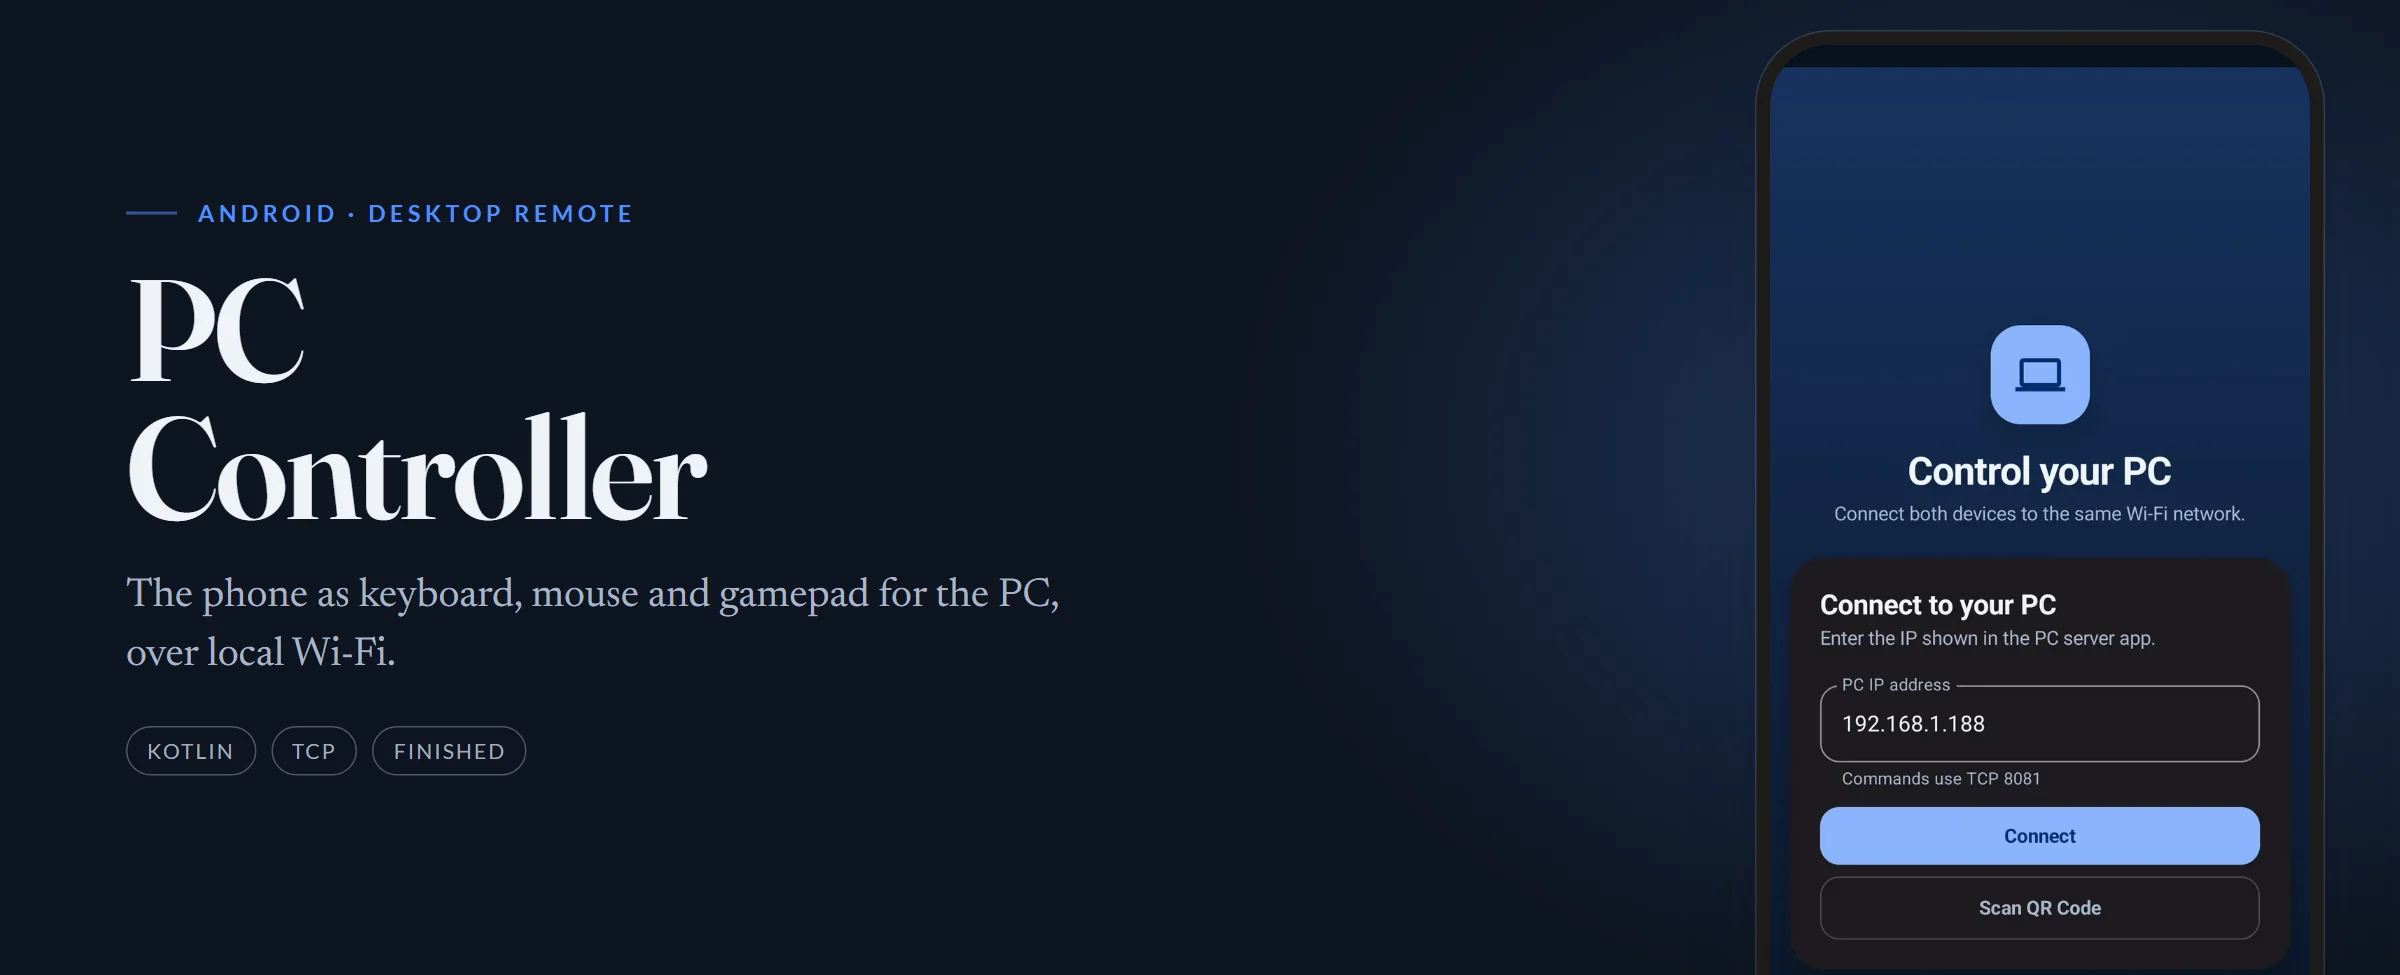
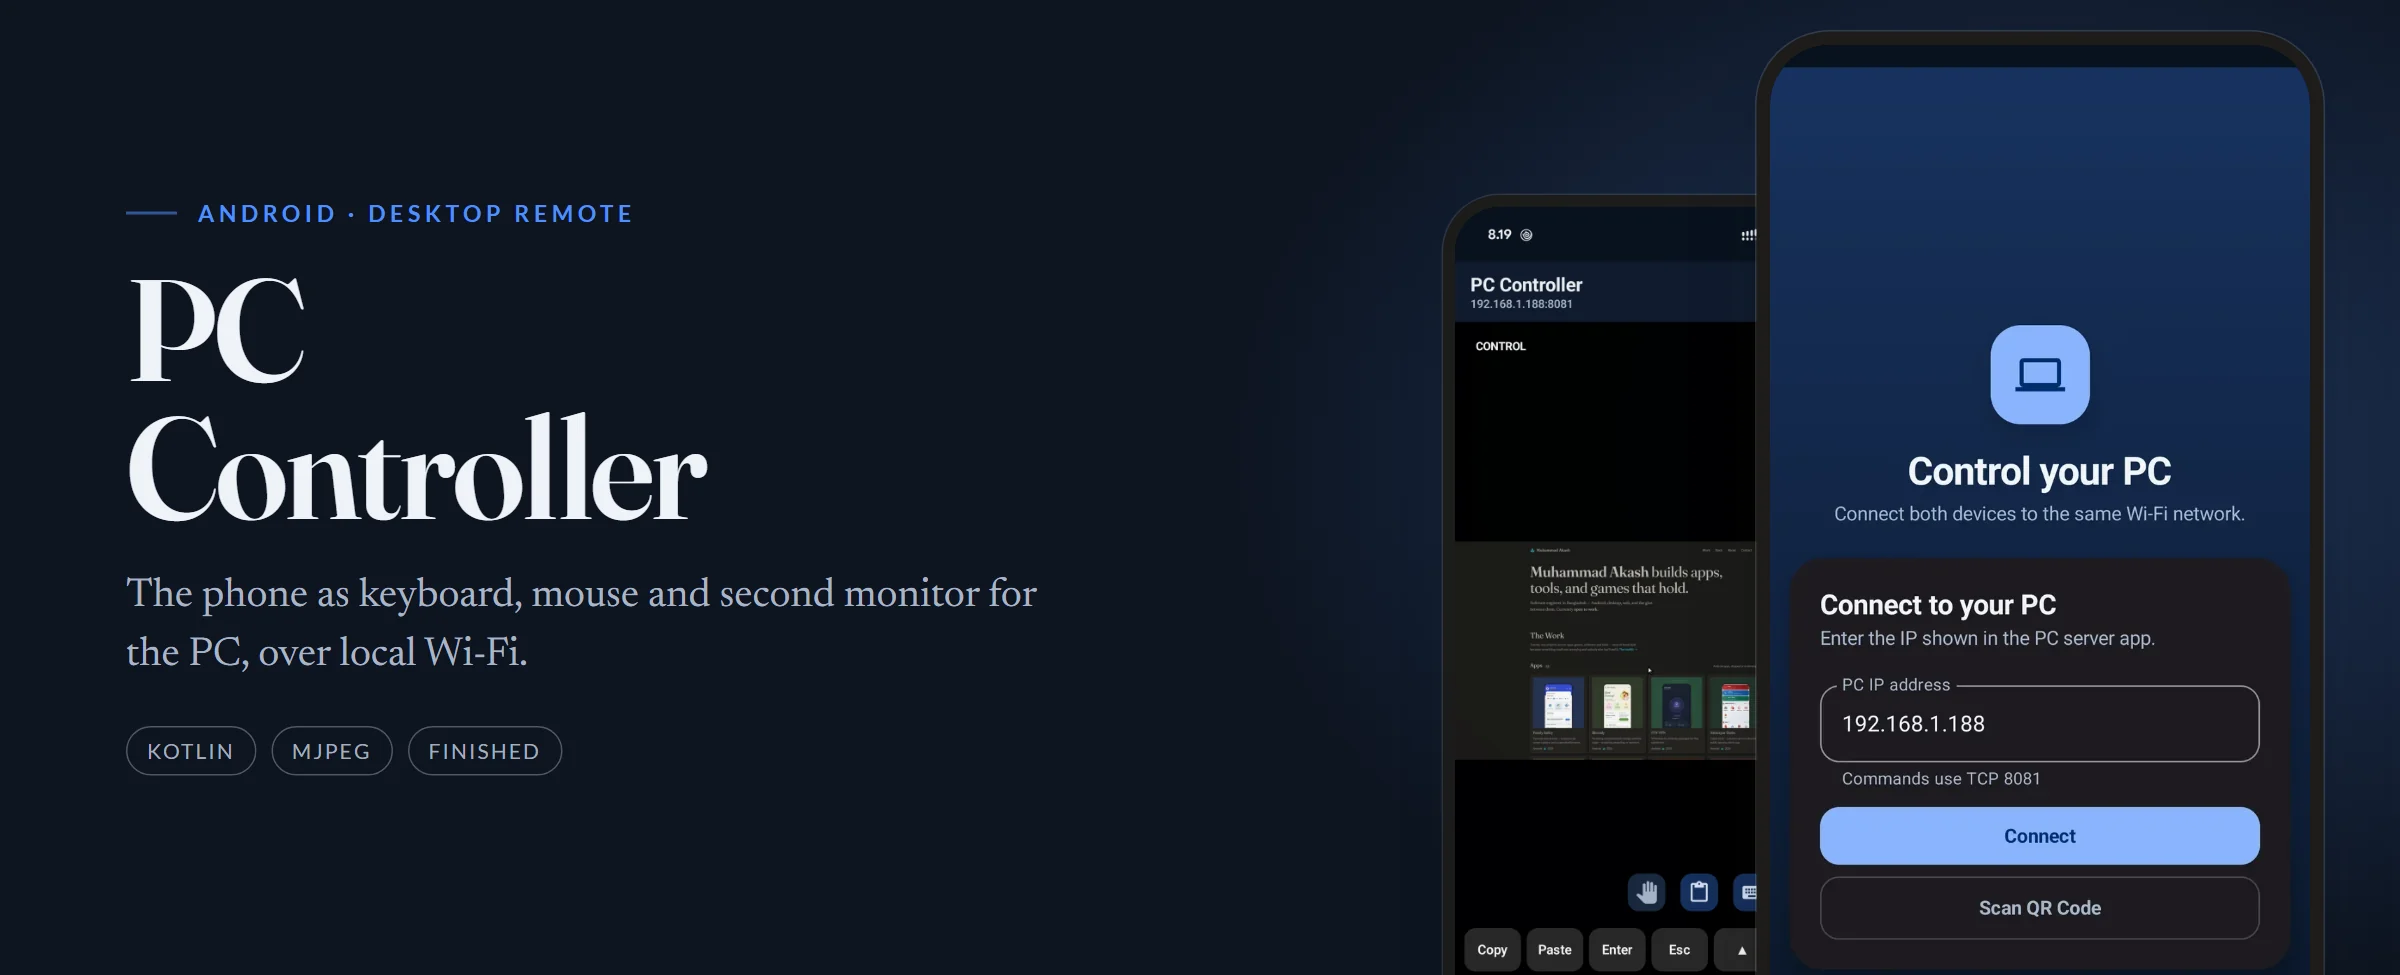
work: PC Controller doubles as a second monitor
The server has always streamed the desktop as MJPEG, but the project read as a remote control only. Rewrites the summary, body and card copy around the screen, and adds two live captures: the portrait remote view and the landscape full screen. The cover gets its second phone back.

diff --git a/tools/art.html b/tools/art.html
@@ -247,9 +247,9 @@ const DATA = [
 
   { slug: 'pc-controller', accent: '#4f8ff7', ink: '#4f8ff7', dark: true,
     kicker: 'Android · Desktop remote', title: 'PC<br>Controller',
-    sub: 'The phone as keyboard, mouse and gamepad for the PC, over local Wi-Fi.',
-    meta: ['Kotlin', 'TCP', 'Finished'],
-    front: 'img/pc-controller/01-home.webp',
+    sub: 'The phone as keyboard, mouse and second monitor for the PC, over local Wi-Fi.',
+    meta: ['Kotlin', 'MJPEG', 'Finished'],
+    front: 'img/pc-controller/01-home.webp', back: 'img/pc-controller/02-remote.webp',
     card: 'img/pc-controller/01-home.webp' },
 
   { slug: 'neon-breaker', accent: '#b388ff', ink: '#b388ff', dark: true, frame: 'window',

diff --git a/index.html b/index.html
@@ -297,7 +297,7 @@
               <article class="card">
                 <div class="card-art" style="--tint:#4f8ff7"><img src="img/pc-controller/card.webp" alt="PC Controller — connect to a PC" loading="lazy" /></div>
                 <h3>PC Controller</h3>
-                <p class="card-desc">Drive a desktop from a phone — Python server, Android client.</p>
+                <p class="card-desc">Phone as keyboard, mouse and second monitor for the PC.</p>
                 <div class="meta"><span>Desktop</span><svg class="growth"><use href="#i-sprout"/></svg><span>2025</span></div>
               </article>
             </a>
